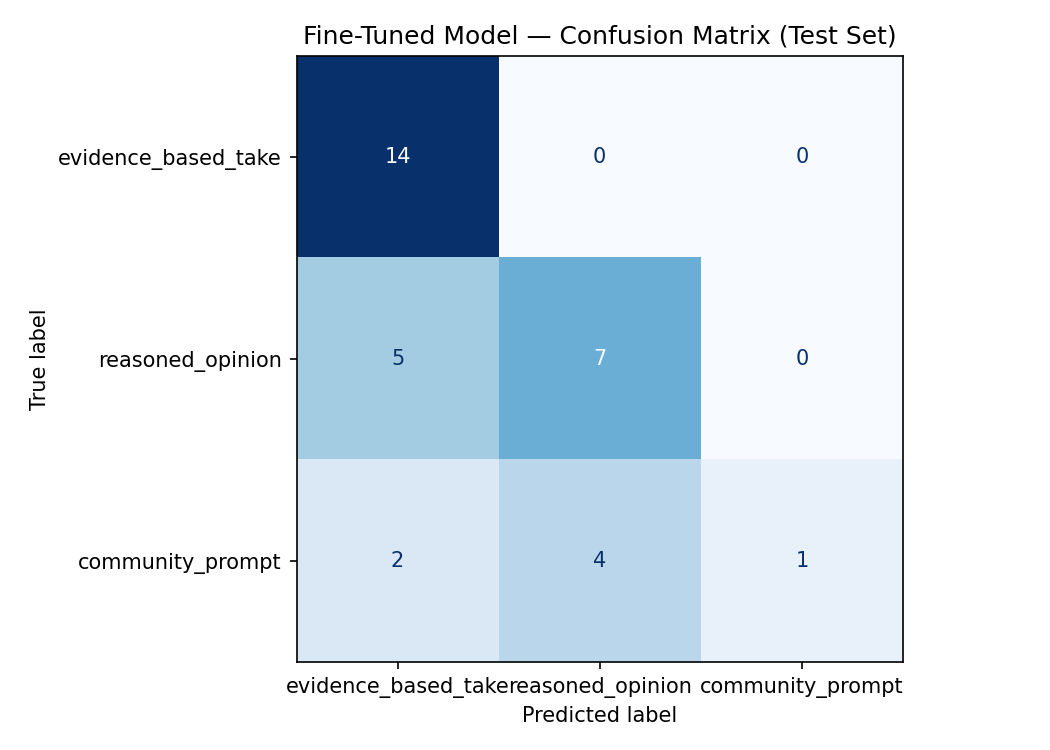
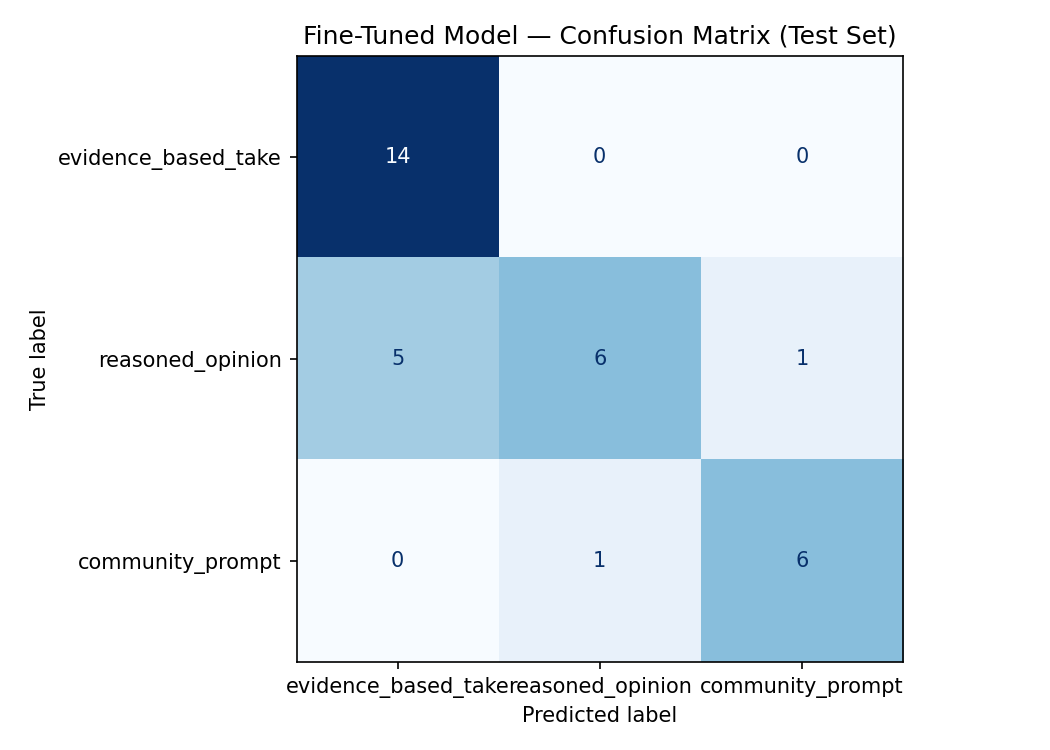
Update evaluation results and README with improved accuracy metrics and training details

Changed region(s): [[0.2743, 0.3373, 0.8838, 0.8893], [0.7619, 0.46, 0.7924, 0.4907]]

diff --git a/README.md b/README.md
@@ -137,28 +137,30 @@ The final test set contained **33 examples**.
 
 I increased the number of training epochs from **3 to 5**.
 
-In an earlier run, the 3-epoch model over-predicted `evidence_based_take`, especially when posts mentioned specific artists, albums, or songs. I increased training to 5 epochs so the classifier had more passes over the small dataset. The final 5-epoch run reached **0.697 validation accuracy** and produced a final test accuracy of **0.667**.
+In an earlier run, the 3-epoch model over-predicted `evidence_based_take`, especially when posts mentioned specific artists, albums, or songs. I increased training to 5 epochs so the classifier had more passes over the small dataset. The final 5-epoch run reached **0.697 validation accuracy** and produced a final test accuracy of **0.788**.
 
 Main training settings:
 
-| Setting             |                     Value |
-| ------------------- | ------------------------: |
-| Base model          | `distilbert-base-uncased` |
-| Training platform   |              Google Colab |
-| Epochs              |                         5 |
-| Learning rate       |                    `2e-5` |
-| Train batch size    |                        16 |
-| Eval batch size     |                        32 |
-| Weight decay        |                      0.01 |
-| Evaluation strategy |                 per epoch |
+| Setting               |                     Value |
+| --------------------- | ------------------------: |
+| Base model            | `distilbert-base-uncased` |
+| Training platform     |              Google Colab |
+| Epochs                |                         5 |
+| Learning rate         |                    `2e-5` |
+| Train batch size      |                        16 |
+| Eval batch size       |                        32 |
+| Weight decay          |                      0.01 |
+| Warmup steps          |                        50 |
+| Evaluation strategy   |                 per epoch |
+| Save strategy         |                 per epoch |
+| Metric for best model |                `accuracy` |
+| Logging steps         |                        10 |
 
 ## Baseline Approach
 
 The baseline was a zero-shot Groq model prompted with the same label definitions and asked to return exactly one label name.
 
-The project specification recommended using Groq’s `llama-3.3-70b-versatile`. I initially attempted that model, but the run hit Groq’s token-per-day limit before completing the full test set. To keep the comparison complete on all 33 test examples, I used Groq’s **`llama-3.1-8b-instant`** instead.
-
-The baseline and fine-tuned model were evaluated on the same locked test set.
+I used Groq’s **`llama-3.3-70b-versatile`** for the zero-shot baseline. The baseline and fine-tuned DistilBERT model were evaluated on the same locked test set of 33 examples.
 
 ### Baseline Prompt Summary
 
@@ -181,36 +183,34 @@ The model was instructed to output only the label name.
 
 The final evaluation compared the zero-shot Groq baseline and the fine-tuned DistilBERT model on the same 33-example test set.
 
-| Model                                             | Accuracy |
-| ------------------------------------------------- | -------: |
-| Zero-shot Groq baseline (`llama-3.1-8b-instant`)  |    0.697 |
-| Fine-tuned DistilBERT (`distilbert-base-uncased`) |    0.667 |
+| Model                                               | Accuracy |
+| --------------------------------------------------- | -------: |
+| Zero-shot Groq baseline (`llama-3.3-70b-versatile`) |    0.667 |
+| Fine-tuned DistilBERT (`distilbert-base-uncased`)   |    0.788 |
 
-The fine-tuned model did not outperform the zero-shot baseline. The baseline was about **0.03** higher in accuracy.
-
-This means the project did not fully meet my original definition of success, which required the fine-tuned model to outperform the zero-shot baseline. However, the fine-tuned model still learned meaningful label patterns and produced useful failure cases for analysis.
+The fine-tuned model outperformed the zero-shot baseline by **0.121 accuracy**. This met my original success goal of exceeding 70% accuracy and beating the zero-shot baseline on the same test set.
 
 ### Fine-Tuned Model Per-Class Metrics
 
 | Label                 | Precision | Recall | F1-score | Support |
 | --------------------- | --------: | -----: | -------: | ------: |
-| `evidence_based_take` |      0.67 |   1.00 |     0.80 |      14 |
-| `reasoned_opinion`    |      0.64 |   0.58 |     0.61 |      12 |
-| `community_prompt`    |      1.00 |   0.14 |     0.25 |       7 |
-| **Accuracy**          |           |        | **0.67** |      33 |
-| **Macro avg**         |      0.77 |   0.58 |     0.55 |      33 |
-| **Weighted avg**      |      0.73 |   0.67 |     0.61 |      33 |
+| `evidence_based_take` |      0.74 |   1.00 |     0.85 |      14 |
+| `reasoned_opinion`    |      0.86 |   0.50 |     0.63 |      12 |
+| `community_prompt`    |      0.86 |   0.86 |     0.86 |       7 |
+| **Accuracy**          |           |        | **0.79** |      33 |
+| **Macro avg**         |      0.82 |   0.79 |     0.78 |      33 |
+| **Weighted avg**      |      0.81 |   0.79 |     0.77 |      33 |
 
 ### Baseline Per-Class Metrics
 
 | Label                 | Precision | Recall | F1-score | Support |
 | --------------------- | --------: | -----: | -------: | ------: |
-| `evidence_based_take` |      0.88 |   0.50 |     0.64 |      14 |
-| `reasoned_opinion`    |      0.58 |   0.92 |     0.71 |      12 |
-| `community_prompt`    |      0.83 |   0.71 |     0.77 |       7 |
-| **Accuracy**          |           |        | **0.70** |      33 |
-| **Macro avg**         |      0.76 |   0.71 |     0.71 |      33 |
-| **Weighted avg**      |      0.76 |   0.70 |     0.69 |      33 |
+| `evidence_based_take` |      1.00 |   0.36 |     0.53 |      14 |
+| `reasoned_opinion`    |      0.52 |   0.92 |     0.67 |      12 |
+| `community_prompt`    |      0.86 |   0.86 |     0.86 |       7 |
+| **Accuracy**          |           |        | **0.67** |      33 |
+| **Macro avg**         |      0.79 |   0.71 |     0.68 |      33 |
+| **Weighted avg**      |      0.80 |   0.67 |     0.65 |      33 |
 
 ## Confusion Matrix
 
@@ -225,34 +225,34 @@ Text version:
 | True label \ Predicted label | `evidence_based_take` | `reasoned_opinion` | `community_prompt` |
 | ---------------------------- | --------------------: | -----------------: | -----------------: |
 | `evidence_based_take`        |                    14 |                  0 |                  0 |
-| `reasoned_opinion`           |                     5 |                  7 |                  0 |
-| `community_prompt`           |                     2 |                  4 |                  1 |
+| `reasoned_opinion`           |                     5 |                  6 |                  1 |
+| `community_prompt`           |                     0 |                  1 |                  6 |
 
-The confusion matrix shows that the fine-tuned model recognized `evidence_based_take` very strongly, correctly identifying all 14 test examples in that class. However, it struggled with `community_prompt`, correctly identifying only 1 of 7 examples. Most `community_prompt` errors were predicted as `reasoned_opinion`, suggesting that the model had difficulty recognizing when a post’s main purpose was to ask the community for responses rather than make an argument.
+The confusion matrix shows that the fine-tuned model recognized `evidence_based_take` very strongly, correctly identifying all 14 test examples in that class. It also performed well on `community_prompt`, correctly identifying 6 of 7 examples. The weakest class was `reasoned_opinion`, where 5 of 12 examples were predicted as `evidence_based_take`.
 
 ## Error Analysis
 
-The fine-tuned model made **11 wrong predictions out of 33 test examples**.
+The fine-tuned model made **7 wrong predictions out of 33 test examples**.
 
-### Main Failure Pattern 1: Over-predicting `evidence_based_take`
+### Main Failure Pattern 1: Over-predicting `evidence_based_take` for subjective opinions
 
 The most common failure pattern was that the model predicted `evidence_based_take` when a post or comment mentioned artists, albums, songs, music eras, or examples. This happened even when the author was mainly giving a subjective opinion.
 
-For example, one true `reasoned_opinion` comment said that music quality is mostly about whether something emotionally moves the listener rather than anything technical or objective. The model predicted `evidence_based_take` with **0.44 confidence**, likely because the comment discussed evaluation criteria for music. However, the author was describing a personal standard, so `reasoned_opinion` was the correct label.
+For example, one true `reasoned_opinion` comment said that music quality is mostly about whether something emotionally moves the listener rather than anything technical or objective. The model predicted `evidence_based_take` with **0.52 confidence**, likely because the comment discussed evaluation criteria for music. However, the author was describing a personal standard, so `reasoned_opinion` was the correct label.
 
-Another true `reasoned_opinion` comment criticized a cover song as emotionally empty and musically boring. The model predicted `evidence_based_take` with **0.39 confidence**, likely because the comment gave specific musical criticism. However, the reasoning was still subjective rather than evidence-based.
+Another true `reasoned_opinion` comment discussed Olivia Rodrigo and album praise, mentioning references and listener reactions. The model predicted `evidence_based_take` with **0.52 confidence**, likely because it treated references to specific artists or musical context as evidence-based support. However, the comment was mainly a subjective interpretation of why people praised the album.
 
-### Main Failure Pattern 2: Missing `community_prompt`
+### Main Failure Pattern 2: Struggling with reflective `reasoned_opinion` examples
 
-The model also struggled to identify `community_prompt`. It often predicted `reasoned_opinion` or `evidence_based_take` when the post included background context before asking the community a question.
+Several `reasoned_opinion` examples were misclassified as `evidence_based_take` when the author reflected on music history, artists, or personal changes in taste. For example, one comment discussed changing opinions about popular music, boy bands, girl groups, and late-1990s pop. The correct label was `reasoned_opinion`, but the model predicted `evidence_based_take` with **0.47 confidence**.
 
-For example, a post asked whether 80s hits have the most staying power and why they seem so memorable. The correct label was `community_prompt`, but the model predicted `reasoned_opinion` with **0.35 confidence**. The model likely focused on the author’s brief hypothesis about formulaic hit-making and production trends instead of recognizing that the main purpose was to ask the community for explanations.
+This suggests that the model learned to associate historical or artist-specific references with `evidence_based_take`, even when those references were being used as part of a personal reflection rather than as evidence in a structured argument.
 
-Another post asked what a song draws from musically, including possible references to English pub music or traditional music. The correct label was `community_prompt`, but the model predicted `reasoned_opinion` with **0.38 confidence**. The post was asking the community to help identify influences, not making a developed argument.
+### Main Failure Pattern 3: Boundary between `community_prompt` and `reasoned_opinion`
 
-### Main Failure Pattern 3: Surface cues mattered too much
+The model performed much better on `community_prompt` than in earlier runs, but it still missed one prompt-style example. A post asked whether there is a recognizable “Reddit music taste” and gave background context about websites, forums, magazines, and critic fanbases. The true label was `community_prompt`, but the model predicted `reasoned_opinion` with **0.36 confidence**.
 
-The model appeared to rely on surface cues such as named artists, historical periods, and long explanations. These cues often appear in `evidence_based_take`, but they also appear in subjective opinions and prompts. This suggests that the model learned some vocabulary patterns from the dataset but did not always learn the deeper difference between evidence, reasoning, and intent.
+The likely issue is that the post included enough background framing to look like a conceptual argument. However, the main purpose was still to ask the community to define or discuss a shared pattern.
 
 ## Specific Wrong Predictions
 
@@ -263,7 +263,7 @@ A user says music quality is mostly about whether it emotionally moves them rath
 
 **True label:** `reasoned_opinion`
 **Predicted label:** `evidence_based_take`
-**Confidence:** 0.44
+**Confidence:** 0.52
 
 **Analysis:**
 The model likely misclassified this because the comment discusses evaluation criteria for music, which can resemble analysis. However, the author is mainly describing a subjective personal standard, so `reasoned_opinion` is the better label.
@@ -271,51 +271,52 @@ The model likely misclassified this because the comment discusses evaluation cri
 ### Wrong Prediction 2
 
 **Text summary:**
-A user criticizes a cover song as emotionally empty, musically boring, and reliant on vocal tricks.
+A user discusses Olivia Rodrigo and says some praise for an album may come from listeners’ affinity for the references she is citing.
 
 **True label:** `reasoned_opinion`
 **Predicted label:** `evidence_based_take`
-**Confidence:** 0.39
+**Confidence:** 0.52
 
 **Analysis:**
-The model likely treated specific musical criticism as evidence-based analysis. The comment gives reasons, but those reasons are subjective judgments about emotional impact and musical boredom rather than a structured evidence-based argument.
+The model likely treated the mention of specific artists, references, and album context as evidence-based support. However, the comment is mainly explaining a subjective view about why listeners respond positively to the album.
 
 ### Wrong Prediction 3
 
 **Text summary:**
-A post asks whether 80s hits have the most staying power and asks the community why those songs seem so memorable.
+A post asks whether there is a recognizable “Reddit music taste” and gives background context about different websites, forums, magazines, and fanbases.
 
 **True label:** `community_prompt`
 **Predicted label:** `reasoned_opinion`
-**Confidence:** 0.35
+**Confidence:** 0.36
 
 **Analysis:**
-The model likely focused on the author’s brief hypothesis about production trends and formulaic hit-making. The correct label is `community_prompt` because most of the post is framed as questions asking the community for explanations.
+The model likely focused on the post’s background explanation and interpreted it as a reasoned opinion. The correct label is `community_prompt` because the main purpose is to ask the community to define or discuss a shared pattern.
 
 ## Sample Classifications
 
-| Text summary                                                                                            | Predicted label       | Confidence | Correct? | Explanation                                                                                                                          |
-| ------------------------------------------------------------------------------------------------------- | --------------------- | ---------: | -------- | ------------------------------------------------------------------------------------------------------------------------------------ |
-| A post/comment made a claim supported by specific examples and was classified as `evidence_based_take`. | `evidence_based_take` |        N/A | Yes      | This prediction is reasonable because the text used examples as support rather than just naming artists or albums.                   |
-| A user says music quality is about whether it emotionally moves them rather than technical standards.   | `evidence_based_take` |       0.44 | No       | The correct label was `reasoned_opinion`; the model likely confused discussion of evaluation standards with evidence-based analysis. |
-| A post asks whether 80s hits have the most staying power and asks the community to explain why.         | `reasoned_opinion`    |       0.35 | No       | The correct label was `community_prompt`; the post mainly asks the community for explanations.                                       |
-| A comment criticizes a cover song as emotionally empty and musically boring.                            | `evidence_based_take` |       0.39 | No       | The correct label was `reasoned_opinion`; the comment gives subjective reasoning, not a structured evidence-based argument.          |
+| Text summary                                                                                                                                | Predicted label       | Confidence | Correct? | Explanation                                                                                                                                      |
+| ------------------------------------------------------------------------------------------------------------------------------------------- | --------------------- | ---------: | -------- | ------------------------------------------------------------------------------------------------------------------------------------------------ |
+| A comment discusses internet file sharing, music books, and historical context around music access.                                         | `evidence_based_take` |       0.39 | Yes      | This prediction is reasonable because the text uses historical context and specific details to support its discussion.                           |
+| A post argues that Insane Clown Posse is underrated and compares public dislike of them with other hated music groups.                      | `evidence_based_take` |       0.60 | Yes      | The model correctly identified this as evidence-based because the post supports its claim with comparisons and specific music-community context. |
+| A comment explains why most people do not treat music as an obsessive hobby and are not searching for experimental textures or new artists. | `reasoned_opinion`    |       0.39 | Yes      | This prediction is reasonable because the comment gives an explained interpretation but relies mostly on subjective reasoning.                   |
+| A user says music quality is about whether it emotionally moves them rather than technical standards.                                       | `evidence_based_take` |       0.52 | No       | The correct label was `reasoned_opinion`; the model likely confused discussion of evaluation standards with evidence-based analysis.             |
+| A post asks whether there is a recognizable “Reddit music taste.”                                                                           | `reasoned_opinion`    |       0.36 | No       | The correct label was `community_prompt`; the post mainly asks the community to discuss a shared pattern.                                        |
 
 ## Reflection: What the Model Learned vs. What I Intended
 
-I intended the model to learn the structural difference between supported arguments, subjective reasoning, and community prompts. The model partially learned this distinction, especially for `evidence_based_take`, where it achieved high recall.
+I intended the model to learn the structural difference between supported arguments, subjective reasoning, and community prompts. The model learned this distinction better than I expected after the final dataset adjustment and 5-epoch training run. It performed especially well on `evidence_based_take` and `community_prompt`.
 
-However, the model also appeared to overfit to surface-level signals. It often treated named artists, songs, eras, or specific examples as signs of `evidence_based_take`, even when those examples were part of a subjective opinion. It also struggled with `community_prompt` posts that included background explanation before asking the community a question.
+However, the model still struggled with the boundary between `evidence_based_take` and `reasoned_opinion`. It often treated named artists, songs, eras, or specific examples as signs of `evidence_based_take`, even when those examples were part of a subjective opinion. This shows a gap between my label definitions and what the model learned.
 
-This shows a gap between my label definitions and what the model learned. I wanted the model to classify based on the author’s intent and how evidence was used, but the model often classified based on visible content features such as length, named examples, and music-specific vocabulary.
+I wanted the model to classify based on how evidence was used and what the author’s main intent was. The model sometimes classified based on visible content features such as length, named examples, and music-specific vocabulary.
 
-To improve this model, I would collect more `community_prompt` examples that include long setups, and more `reasoned_opinion` examples that mention artists or songs without using them as structured evidence. That would help the model learn the hard boundaries more clearly.
+To improve this model, I would collect more `reasoned_opinion` examples that mention specific artists or songs without using them as structured evidence. That would help the model learn that simply naming an artist or song is not enough to make a post evidence-based.
 
 ## Spec Reflection
 
 One way the spec helped was by forcing me to define the labels before collecting the full dataset. That made the annotation process more consistent because I had decision rules for difficult cases such as question-based posts with long personal arguments.
 
-One way my implementation diverged from the spec was the zero-shot baseline model. I originally attempted to use Groq’s `llama-3.3-70b-versatile`, but the full baseline run hit Groq’s token-per-day limit before completing the test set. To keep the baseline comparison complete on all 33 test examples, I used Groq’s `llama-3.1-8b-instant` instead and documented the change.
+One way my implementation diverged from my original plan was the dataset structure. I originally planned to track `source_type` and `permalink`, but I simplified the final CSV to `text`, `label`, and `notes` for compatibility with the starter notebook and easier model training. I still documented the source community and labeling process in the README and planning document.
 
 ## AI Usage
 